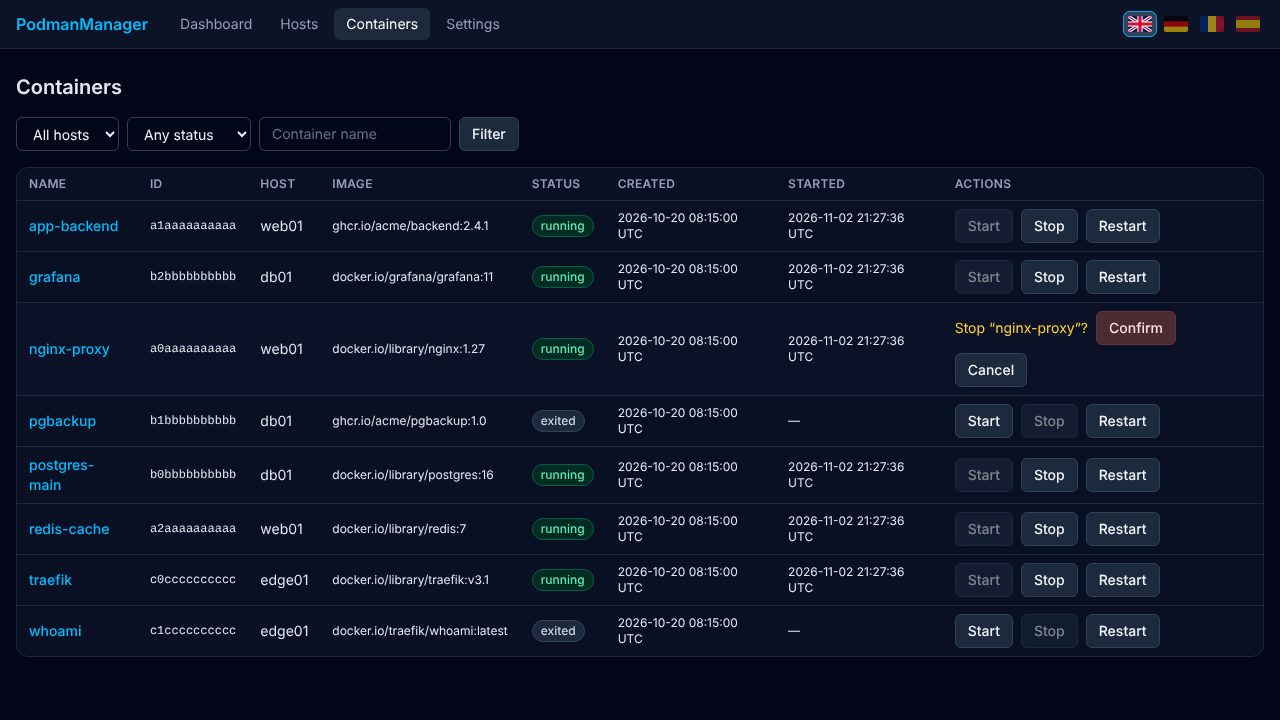
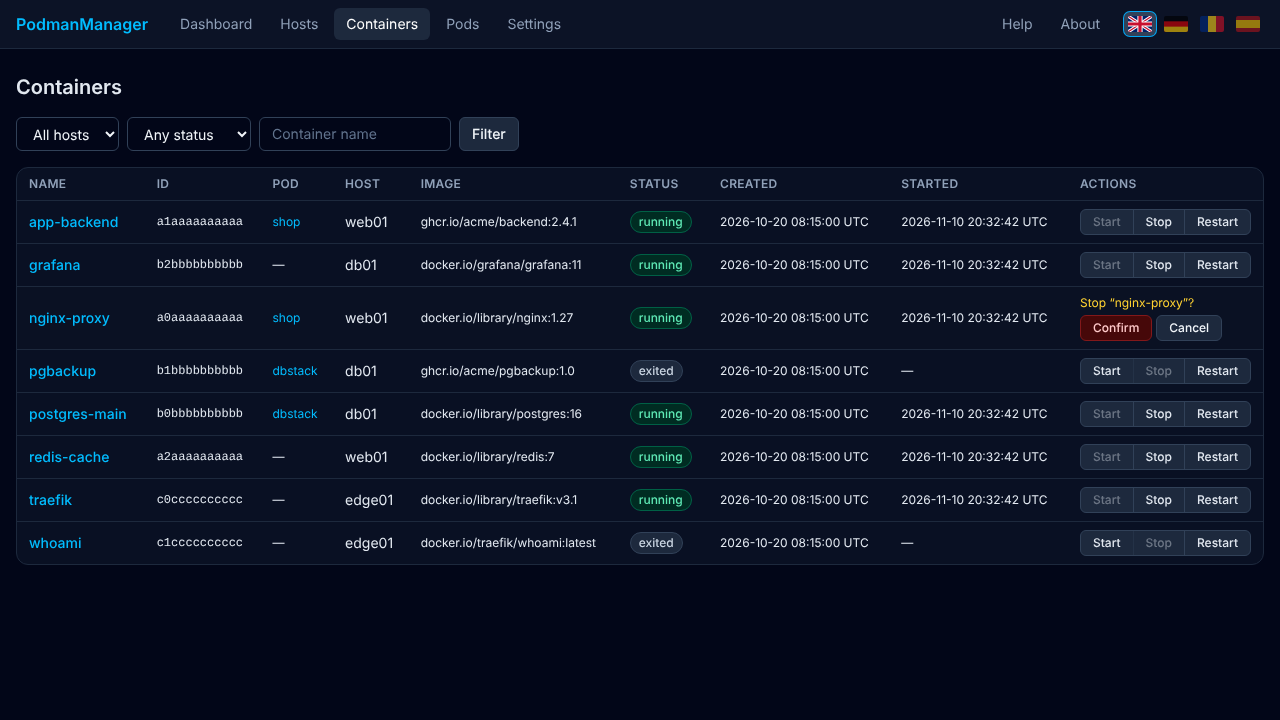
README: refresh screenshots (pods, logs, pod column, agent logs)
Claude-Session: https://claude.ai/code/session_01Mw1eJcjz1zhTj6DqA4m2yv

diff --git a/README.md b/README.md
@@ -24,20 +24,23 @@ Kein Docker, kein Compose, kein HTTPS/TLS, kein Root. **Nur in einem abgeschotte
 
 **Desktop**
 
-| Dashboard | Hosts |
+| Dashboard | Hosts mit Agent-Logs |
 |---|---|
 | ![Dashboard](docs/screenshots/desktop-dashboard.png) | ![Hosts](docs/screenshots/desktop-hosts.png) |
-| **Container** | **Stop mit Bestätigung** |
+| **Container** (mit Pod-Spalte) | **Stop mit Bestätigung** |
 | ![Containers](docs/screenshots/desktop-containers.png) | ![Stop-Bestätigung](docs/screenshots/desktop-stop-confirmation.png) |
-| **Container-Details** | **Host nicht erreichbar** (wird separat ausgewiesen) |
+| **Container-Details mit Logs** | **Host nicht erreichbar** (wird separat ausgewiesen) |
 | ![Details](docs/screenshots/desktop-container-detail.png) | ![Dashboard mit Offline-Host](docs/screenshots/desktop-dashboard-host-offline.png) |
+| **Pods** | **Pod-Details mit gemischten Logs** |
+| ![Pods](docs/screenshots/desktop-pods.png) | ![Pod-Details](docs/screenshots/desktop-pod-detail.png) |
 
 **Smartphone** (Kartenansicht statt Tabellen)
 
 <p>
-  <img src="docs/screenshots/mobile-dashboard.png" alt="Dashboard mobil" width="260">
-  <img src="docs/screenshots/mobile-hosts.png" alt="Hosts mobil" width="260">
-  <img src="docs/screenshots/mobile-containers.png" alt="Container mobil" width="260">
+  <img src="docs/screenshots/mobile-dashboard.png" alt="Dashboard mobil" width="200">
+  <img src="docs/screenshots/mobile-hosts.png" alt="Hosts mobil" width="200">
+  <img src="docs/screenshots/mobile-containers.png" alt="Container mobil" width="200">
+  <img src="docs/screenshots/mobile-pods.png" alt="Pods mobil" width="200">
 </p>
 
 Die Screenshots zeigen Testdaten (nachgebaute Podman-Sockets). Die Oberfläche gibt es in Englisch, Deutsch, Rumänisch und Spanisch (Flaggen oben rechts).
